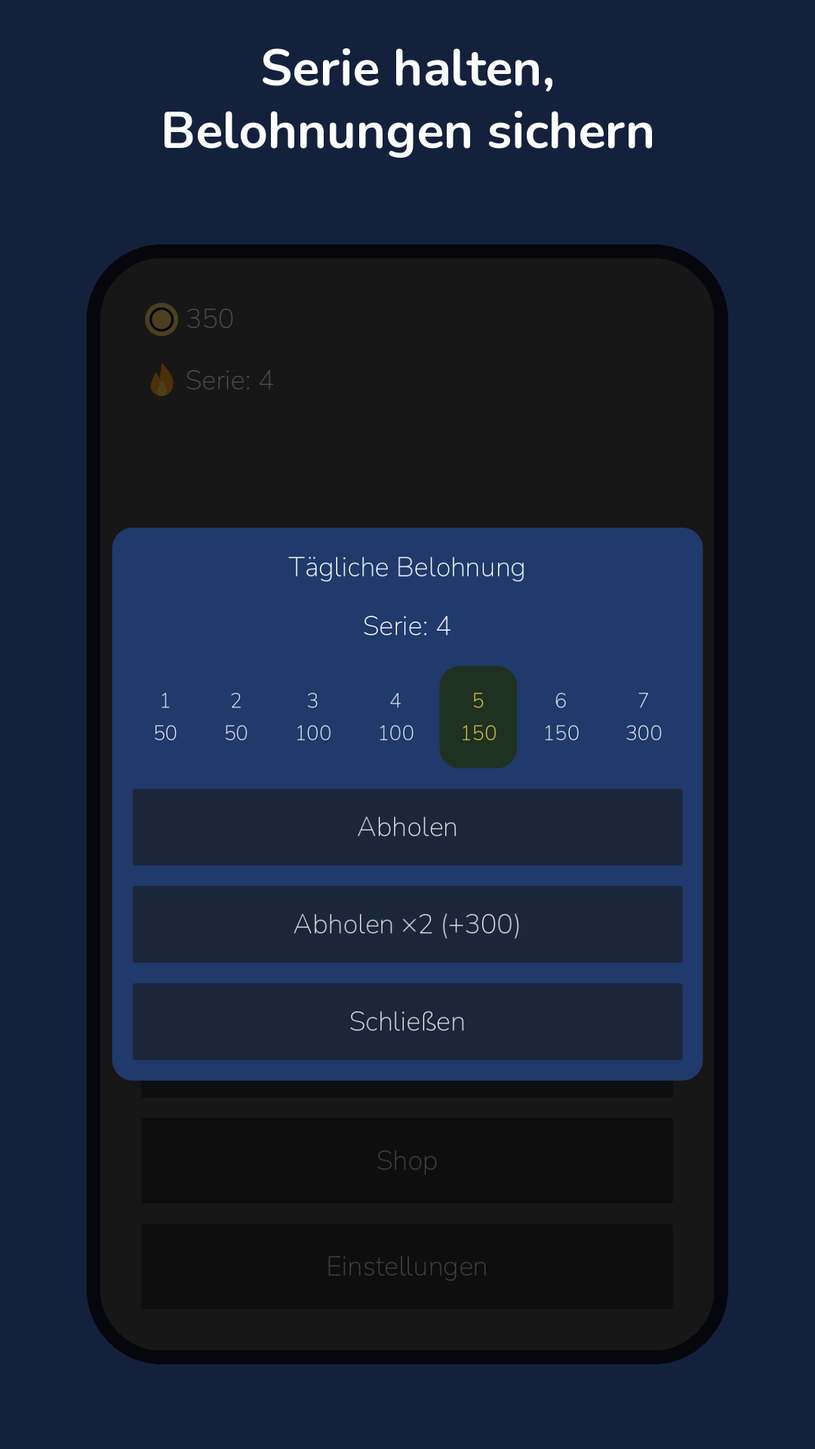
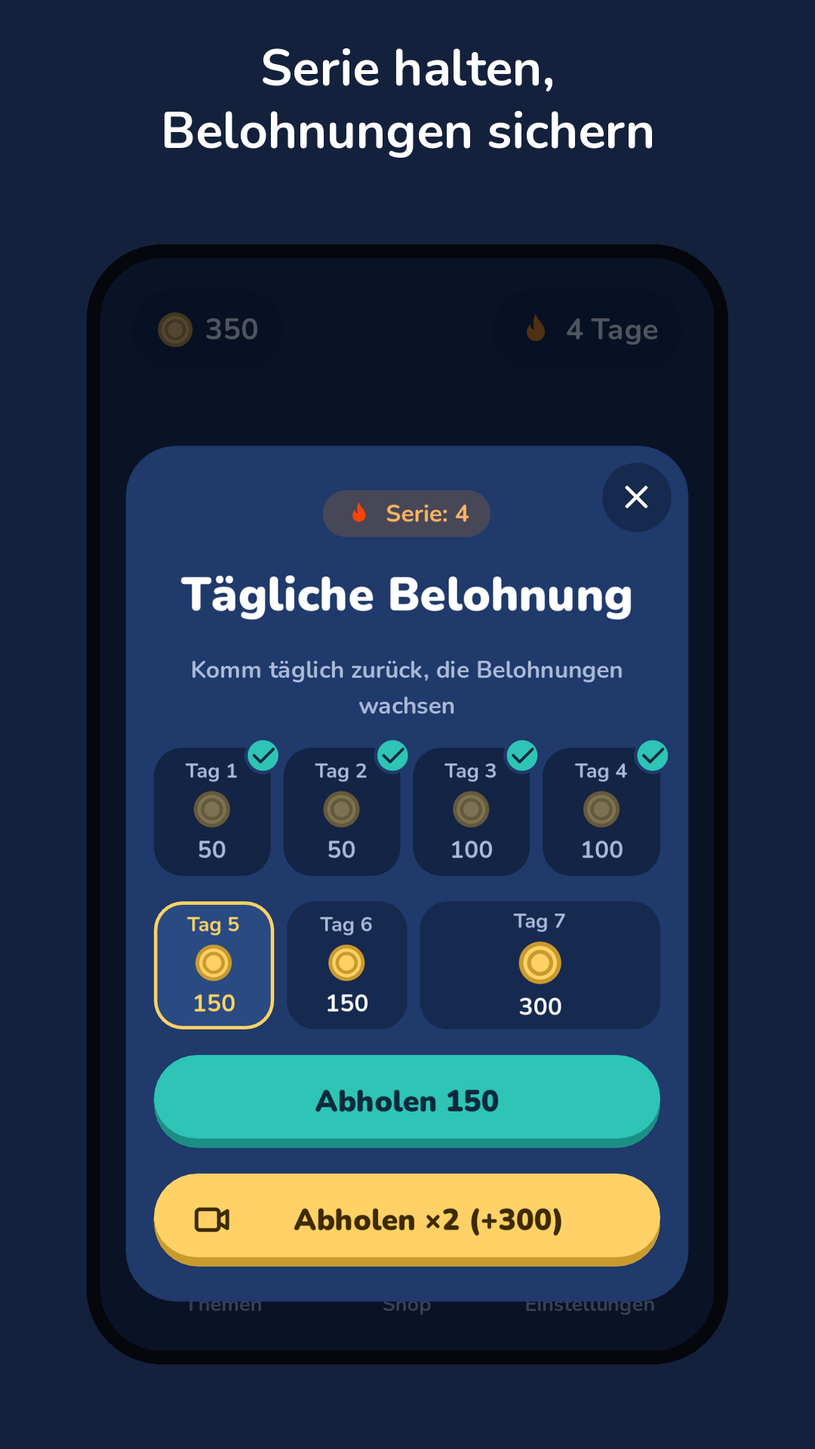
chore(T-283): ponowny odbiór UI v2 (T-236b) — PASS 8/8, kadry sklepowe UI v2, Inbox T-289…T-294 (#239)
* chore(T-283): start

Claude-Session: https://claude.ai/code/session_01G6v5BqP3ZwPGurhcrkDyXZ

* chore(T-283): ponowny odbiór UI v2 (T-236b) PASS 8/8 — raport, kadry sklepowe UI v2, Inbox T-289…T-294

Claude-Session: https://claude.ai/code/session_01G6v5BqP3ZwPGurhcrkDyXZ

---------

Changed region(s): [[0.1222, 0.1875, 0.8861, 0.9062], [0.7028, 0.2188, 0.7944, 0.25], [0.6417, 0.2188, 0.6722, 0.25]]

diff --git a/BACKLOG.md b/BACKLOG.md
@@ -145,12 +145,12 @@ Pętla bierze pierwsze `todo` z najwyższej sekcji. Zadania P0 muszą być `done
   KA: `bash tools/gen_screenshots.sh --store --size 720x1560` działa; `tools/test_tools.py` sprawdza parsowanie `--size`; nowe fixture'y w `screenshot_fixtures.gd` z testem. ≤ 150 linii.
   Skill: `godot-test` + `aso`
 
-- [ ] T-282 `review` UI v2 naprawa: Home — pigułka serii „5 dni · rekord 12” i podpis paska motywu „Do motywu <nazwa>” + „N / M” wg makiety 04 (awans z Inboxu — odkryte w T-276, sesja #25; zależy od T-276 — PR #232; pliki: `home.gd`, `strings.csv`, testy Home)
+- [ ] T-282 `review` UI v2 naprawa: Home — pigułka serii „5 dni · rekord 12” i podpis paska motywu „Do motywu <nazwa>” + „N / M” wg makiety 04 (awans z Inboxu — odkryte w T-276, sesja #25; zależy od T-276 — PR #232; pliki: `home.gd`, `strings.csv`, testy Home) → PR #238
   KA: pigułka serii „N dni · rekord M” z liczbą mnogą EN/PL/DE (PL: 1 dzień / 2+ dni; DE: Tag/Tage; EN: day/days) zamiast „Seria: 5 Rekord: 12”; pasek motywu: podpis „Do motywu <nazwa>” po lewej + „N / M” po prawej (jak LevelComplete T-273) zamiast „do następnego motywu: N / M”. Testy gdUnit4 ≥ 3: forma dla 1 i 5 dni w PL/DE/EN; etykiety pigułki i paska w DE w 720×1280 i 720×1560 mieszczą się w rodzicu (`get_global_rect()`, brak nakładania); istniejące testy Home zielone (dozwolona zmiana ścieżek węzłów). Zestawienie `docs/ui/compare/04_home_T-282.png`. `make check` zielone. ≤ ~120 linii.
   Metryka (KPI.md): Store conversion (wyśw.→instal.) — brak danych (gra niewydana); Home to kadr sklepowy, a jego PASS w T-283 warunkuje podmianę screenshotów pod cel ≥ 25 % (kill-line 15 %) od 1. tygodnia soft launchu.
   Skill: `godot-dev`
 
-- [ ] T-283 `todo` UI v2: przeprowadź ponowny odbiór (T-236b) 8 ekranów z makietami po naprawach T-272…T-282 i podmień kadry sklepowe przy PASS (zależy od T-277, T-278, T-282 oraz zmergowanych T-272…T-276, T-279, T-280; pliki: nowy `docs/ui/ACCEPTANCE_T-236b.md`, PNG w `fastlane/metadata/**/images/**` — tylko kadry, bez lanes, `docs/LOG.md`)
+- [ ] T-283 `review` UI v2: przeprowadź ponowny odbiór (T-236b) 8 ekranów z makietami po naprawach T-272…T-282 i podmień kadry sklepowe przy PASS (zależy od T-277, T-278, T-282 oraz zmergowanych T-272…T-276, T-279, T-280; pliki: nowy `docs/ui/ACCEPTANCE_T-236b.md`, PNG w `fastlane/metadata/**/images/**` — tylko kadry, bez lanes, `docs/LOG.md`) → PR (nr uzupełni orkiestrator) — werdykt PASS 8/8, raport `docs/ui/ACCEPTANCE_T-236b.md`, kadry sklepowe podmienione
   KA: `bash tools/gen_screenshots.sh --store` oraz `--store --size 720x1560` → 15 PNG EN/PL/DE w każdym rozmiarze; `qa-playtester` porównuje 8 ekranów (Level, StuckPanel, LevelComplete, Home, DailyRewardPopup, Themes, Shop, Settings) z `docs/ui/mockups/*.png` wg kryteriów KA T-236 (układ, kolory, typografia, brak szarych domyślnych kontrolek, brak tekstu < 24 px, brak ucięć/nakładania, także DE) → tabela PASS/FAIL per ekran w `docs/ui/ACCEPTANCE_T-236b.md` i w opisie PR. 8/8 PASS (dopuszczalne „PASS (drobne)” z wpisem do Inbox) → kadry sklepowe podmienione, `make screenshots-smoke` exit 0; ≥ 1 FAIL → kadry NIE podmienione, każde odstępstwo = zadanie naprawcze do P1 (plik + KA). Raport ocenia też resztki P3 T-266 (ikony restore / przekreślone video), T-269 (okrągłe przyciski HUD) i T-281 (kadr `stuck_panel` = prawdziwe utknięcie): zgodne z makietą = zamknięte, odstępstwo = zadanie. ≤ ~80 linii + PNG.
   Metryka (KPI.md): Store conversion (wyśw.→instal.) — brak danych przed wydaniem; screenshoty zgodne z zatwierdzonym UI v2 to warunek startu soft launchu z celem ≥ 25 % (kill-line 15 %); po wydaniu porównanie z 1. tygodniem danych Play Console.
   Skill: `aso` + `godot-test`
@@ -253,11 +253,17 @@ Pętla bierze pierwsze `todo` z najwyższej sekcji. Zadania P0 muszą być `done
 - [ ] T-201 `todo` `measure_curve.gd`: w trybie siatki `config.min_level` w `curve_assist.json` dla wiersza `base` = 1 zamiast 0/„brak” (kosmetyka raportu T-187; nie wpływa na liczby); odkryte w sesji #18. Skill: game-economy (z Inboxu, przegląd 2026-W43)
 - [ ] T-261 `todo` Rewarded przy mediacji: kolejność `onUserEarnedReward` vs zamknięcie reklamy ustala źródło mediacji (dla reklam Google nagroda przed zamknięciem — https://developers.google.cn/admob/android/rewarded?hl=en, 2026-10-25) — adapter AdMob w Fazie 5 musi scalić oba callbacki w jedno `rewarded_closed(granted)` z oknem oczekiwania (czysta klasa + `TestClock`); robić razem z adapterem, tylko jeśli włączymy mediację. Skill: ads-iap (z Inboxu, przegląd 2026-W43)
 - [ ] T-263 `todo` `tools/test_ui_icons.py`: `Image.getdata()` daje DeprecationWarning w Pillow 14 → `get_flattened_data()` (odkryte w T-229, sesja #23). Skill: asset-gen (z Inboxu, przegląd 2026-W43)
-- [ ] T-269 `todo` HUD UI v2 (T-230): przyciski HUD jako okręgi (promień = `HUD_BTN/2`; dziś `ButtonIcon` z promieniem 44 → zaokrąglone kwadraty) — wariant theme `ButtonHud` w `ui_theme.tres`; przycisk zamknij w arkuszach (T-233/T-267) bez cienia (makieta: `CARD_ROW`, bez `*_SHADOW`); do T-236 odbiór. Skill: godot-dev — część „przycisk zamknij bez cienia” zrobiona w T-274 (PR #230); okrągłe przyciski HUD = „PASS (drobne)” w odbiorze T-236 (Level) — ocena w T-283 (z Inboxu, przegląd 2026-W43)
-- [ ] T-266 `todo` Ikony UI v2 brakujące względem makiet 07/08: restore (strzałka kołowa), dzwonek (notyfikacje), przekreślone `video` (Bez reklam) — dopisać do `UI_V2_ICONS` w `gen_assets.py` + `ICON_NAMES`; Shop: pastylka „PAKIET STARTOWY”, zegar odliczania i miniatura 2 probówek w karcie startowej; Settings: kafelek `CARD_ICON` pod ikoną, separatory i chevrony wierszy (odkryte w T-234, sesja #23; do T-236 odbiór). Skill: asset-gen + godot-dev — części Shop → T-278, Settings i dzwonek → T-279 (PR #233); pozostałe ikony (restore, przekreślone video) ocenia T-283 (z Inboxu, przegląd 2026-W43)
-- [ ] T-281 `todo` Smoke `stuck_panel` w `tools/screens.txt` to `show_sample()` (fixture `default`), nie prawdziwe utknięcie — fixture „deadlock” (payload bez legalnych ruchów) dla kadru i testu ścieżki `_check_stuck` w screenshotach (odkryte w T-275, sesja #25). Skill: godot-test — kadr `stuck_panel` w sklepie ocenia T-283 (ryzyko jak T-111) (z Inboxu, przegląd 2026-W43)
+- [ ] T-269 `todo` HUD UI v2 (T-230): przyciski HUD jako okręgi (promień = `HUD_BTN/2`; dziś `ButtonIcon` z promieniem 44 → zaokrąglone kwadraty) — wariant theme `ButtonHud` w `ui_theme.tres`; przycisk zamknij w arkuszach (T-233/T-267) bez cienia (makieta: `CARD_ROW`, bez `*_SHADOW`); do T-236 odbiór. Skill: godot-dev — część „przycisk zamknij bez cienia” zrobiona w T-274 (PR #230); okrągłe przyciski HUD = „PASS (drobne)” w odbiorze T-236 (Level) — ocena w T-283 (z Inboxu, przegląd 2026-W43) — T-283: odstępstwo potwierdzone (kadry `02_level`/`01_pour`), zostaje otwarte
+- [x] T-266 `done` Ikony UI v2 brakujące względem makiet 07/08: restore (strzałka kołowa), dzwonek (notyfikacje), przekreślone `video` (Bez reklam) — dopisać do `UI_V2_ICONS` w `gen_assets.py` + `ICON_NAMES`; Shop: pastylka „PAKIET STARTOWY”, zegar odliczania i miniatura 2 probówek w karcie startowej; Settings: kafelek `CARD_ICON` pod ikoną, separatory i chevrony wierszy (odkryte w T-234, sesja #23; do T-236 odbiór). Skill: asset-gen + godot-dev — części Shop → T-278, Settings i dzwonek → T-279 (PR #233); pozostałe ikony (restore, przekreślone video) ocenia T-283 (z Inboxu, przegląd 2026-W43) — zamknięte w T-283: restore/dzwonek zrobione (T-279), reszta (przekreślone video, zegar) scalona w T-287
+- [ ] T-281 `todo` Smoke `stuck_panel` w `tools/screens.txt` to `show_sample()` (fixture `default`), nie prawdziwe utknięcie — fixture „deadlock” (payload bez legalnych ruchów) dla kadru i testu ścieżki `_check_stuck` w screenshotach (odkryte w T-275, sesja #25). Skill: godot-test — kadr `stuck_panel` w sklepie ocenia T-283 (ryzyko jak T-111) (z Inboxu, przegląd 2026-W43) — T-283: potwierdzone, zostaje otwarte
 
 ## Inbox (nieprzeanalizowane — przegląd w cotygodniowym refreshu)
+- [ ] T-289 `todo` Level: 4. przycisk HUD pokazuje „Ad” z ikoną video, makieta 01: moneta + 60 — ustalić z GDD (reklama ma pierwszeństwo wg T-230) i ewentualnie fixture kadru `01_pour` bez gotowej reklamy; plik `hud.gd`/`screenshot_fixtures.gd` — odkryte w T-283 (odbiór T-236b, sesja #26). Skill: godot-dev
+- [ ] T-290 `todo` StuckPanel: ikona wiersza „+N cofnięć” = ta sama co „Cofnij”; makieta 02: cofnij z zegarem — nowa ikona `undo_clock` w `gen_assets.py` + `stuck_panel.gd` — odkryte w T-283 (odbiór T-236b, sesja #26). Skill: asset-gen
+- [ ] T-291 `todo` LevelComplete: miniatury probówek ściemnione i małe vs makieta 03 (pełne kolory, rząd 8); przy 720×1280 karta dochodzi do dołu probówek; linia „Next level: +1 color” spoza makiety — plik `level_complete.gd`, `level.gd` (`fit_board_above_panel`) — odkryte w T-283 (odbiór T-236b, sesja #26). Skill: godot-dev
+- [ ] T-292 `todo` Home: plakietka NOWOŚĆ niewidoczna w kadrze store `aso_home` (zależy od stanu) — fixture z badge albo decyzja, że kadr bez badge jest OK; plik `screenshot_fixtures.gd` — odkryte w T-283 (odbiór T-236b, sesja #26). Skill: aso
+- [ ] T-293 `todo` DailyRewardPopup: ikona video w przycisku ×2 przy lewej krawędzi — `InlineIcon` obok tekstu jak w LevelComplete (T-273); plik `daily_reward_popup.gd` — odkryte w T-283 (odbiór T-236b, sesja #26). Skill: godot-dev
+- [ ] T-294 `todo` Shop 720×1280: pusty pas ~100 px pod `ScrollContainer` i ucięty wiersz „Bez reklam” — niższa karta startowa na niskim ekranie albo scroll do dołu ekranu; plik `shop_screen.gd` — odkryte w T-283 (odbiór T-236b, sesja #26). Skill: godot-dev
 - [ ] T-287 `todo` Ikony UI v2 do Shop (makieta 07): `clock` (zegar przy liczniku oferty), `coins_stack` (dwie monety dla 1500 monet), przekreślone `video` (Bez reklam — część P3 T-266) — `UI_V2_ICONS`/`ICON_NAMES` w `gen_assets.py`, podpięcie w `shop_screen.gd`; dziś licznik bez ikony, 1500 monet z jedną monetą, `video` bez przekreślenia. Odkryte w T-278 (sesja #26). Skill: asset-gen + godot-dev
 - [ ] T-288 `todo` `strings.csv`: nieużywane klucze `shop_item_coins_small`/`shop_item_coins_large` (tytuły produktów to teraz `shop_coins_amount`) — usunąć po `grep`; `extra_tube_cost_coins` zakres [0, …] dopuszcza 0 (dzielenie w `ShopScreen._desc` chronione `maxi(…,1)`) — rozważyć dolną granicę 1. Odkryte w T-278 (sesja #26). Skill: godot-dev
 - [ ] T-285 `todo` UI v2: `ButtonSecondary` ma w theme cień (`border_width_bottom` w `BG_DEEP`), a makiety 06/07 pokazują płaskie pigułki („W użyciu”, „Użyj”, ceny motywów) — ocenić w T-283; jeśli odstępstwo, wariant `ButtonPill` bez cienia w `ui_theme.tres`. Odkryte w T-277 (sesja #26). Skill: godot-dev

diff --git a/docs/ui/ACCEPTANCE_T-236b.md b/docs/ui/ACCEPTANCE_T-236b.md
@@ -1,0 +1,39 @@
+# Ponowny odbiór UI v2 (T-236b / T-283) — 2026-10-25
+Metoda: worktree gałęzi task/T-283 (zawiera T-272…T-282). Uruchomiono:
+- `bash tools/gen_screenshots.sh --store --size 720x1560` — 15 PNG EN/PL/DE (po 5 na locale: 01_pour, 02_relax, 03_daily, 04_streak, 05_themes) do przeglądu w proporcji makiety.
+- `bash tools/gen_screenshots.sh --size 720x1280` — smoke 15 kadrów EN (`export/screenshots_framed/`), nowe względem T-236: 13_shop_starter, 14_daily_streak3, 15_themes_locked.
+- Na koniec `bash tools/gen_screenshots.sh --store` (1080×1920) — właściwe kadry sklepowe; `make screenshots-smoke` exit 0 (~28 s).
+
+Obejrzano wzrokowo vs makiety `docs/ui/mockups/01…08`: store 1560 DE (01_pour, 02_relax, 03_daily, 04_streak, 05_themes; DE ma najdłuższe napisy — PL/EN store nie oglądane osobno) oraz smoke 1280 EN (02_level, 03_level_complete, 04_stuck_panel, 05_home, 06_settings_screen, 13_shop_starter, 14_daily_streak3, 15_themes_locked). Żaden ekran nie ma szarego tła ani szarych domyślnych kontrolek. Pomiaru pikselowego tekstu < 24 px nie wykonano; najmniejsze napisy to podpisy 24–28 px.
+
+Werdykt ogólny: **PASS (8/8 PASS; 5 z nich „PASS (drobne)”)**
+
+| Ekran | Makieta | Kadr | Wynik | Odstępstwa |
+|---|---|---|---|---|
+| Level | 01_level | store DE 01_pour; smoke 02_level | PASS (drobne) | Tło OK, HUD (pauza/tytuł/pill monet) zgodny, plansza bez ucięć. (a) Przyciski akcji to nadal zaokrąglone kwadraty (makieta: okręgi) — T-269. (b) Podpis 4. przycisku to „Werbung/Ad” z ikoną video, a w makiecie moneta + 60. (c) Plansza w smoke (4 probówki) ścieśniona do góry. Brak ucięć w DE. |
+| StuckPanel | 02_stuck | smoke 04_stuck_panel | PASS (drobne) | Przycisk X to pełny krążek. Cztery wiersze zgodne z makietą: Cofnij (Free), Extra tube (Ad), +3 undos (20), Hint (25); dół: Restart i Skip; tło pod panelem to pełne ściemnione probówki. (a) Wiersz „+3 undos” używa tej samej ikony co Cofnij (makieta: cofnij z zegarem). (b) Pod panelem sztuczny stan `show_sample()` — T-281. |
+| LevelComplete | 03_level_complete | store DE 02_relax; smoke 03 | PASS (drobne) | Granatowe tło, brak nakładania; „Super!”, „LEVEL 20” bez ucięcia; pill „Perfekt!”, +25, linia rozbicia, pasek „Nächstes Thema”, przyciski ×2 i Weiter z wyśrodkowaną ikoną. (a) W smoke 1280 4 probówki stykają się z górną krawędzią karty (panel wyższy przy niskim ekranie). (b) Miniatury małe i ściemnione (makieta: pełne kolory, rząd 8). (c) Smoke ma dodatkową linię „Next level: +1 color”, której nie ma w makiecie. |
+| Home | 04_home | store DE 03_daily; smoke 05_home | PASS (drobne) | Tło OK; logo z probówkami o zaokrąglonym dnie, Graj dwuliniowy, pill monet i serii „5 Tage · Rekord 12”; karta dzienna z kolumnami Belohnung/Neu in, timer w osobnej linii, bez ucięć w DE; pasek „Bis Pastell 350/600”; nawigacja zgodna. (a) Brak plakietki NOWOŚĆ/NEW w kadrze store (fixture `aso_home` — badge zależy od stanu). (b) W smoke przycisk „Play” w karcie szary, bo stan zablokowany („From level 3”). |
+| DailyRewardPopup | 05_daily_reward | store DE 04_streak; smoke 14_daily_streak3 | PASS (drobne) | X to pełny krążek; pill „Serie”, tytuł, siatka dni 1–7 (check-i, „dziś” z obwódką ACCENT, Dzień 7 szerszy), przyciski Abholen i ×2; tło jednolicie przyciemnione; brak ucięć w DE. (a) Karta niższa niż w makiecie. (b) Ikona video w ×2 przy lewej krawędzi, nie obok tekstu (DE i EN). |
+| Themes | 06_themes | store DE 05_themes; smoke 15_themes_locked | PASS | Miniatury z zaokrąglonymi probówkami, aktywny motyw z check-iem i obwódką, ceny (moneta + 600/1944) w pigułkach ze złotą obwódką; karta postępu „Do motywu…” z podpisem; strzałka wstecz wyśrodkowana; brak ucięć. |
+| Shop | 07_shop | smoke 13_shop_starter | PASS (drobne) | Karta „Pakiet startowy” z obwódką, plakietką, timerem, miniaturą, „800 coins + Neon theme” i CTA; podtytuły „About 8 extra tubes”, „+20 % free”; „Restore purchases” jako link z podkreśleniem; strzałka wstecz wyśrodkowana. (a) Lista w ScrollContainer — przy 1280 wiersz „No ads” przycięty, pod nim pusty pas ~100 px przed linkiem. (b) Timer bez ikony zegara. (c) 1500 monet z jedną monetą. (d) „Bez reklam” bez przekreślonego video — T-287. |
+| Settings | 08_settings | smoke 06_settings_screen | PASS (drobne) | Kafelki ikon `CARD_ICON`, separatory, przełączniki ~112×64, Language jako „System ›”, Restore z ikoną cofania i chevronem, nagłówki sekcji, dzwonek przy Notifications (wiersz bez makiety), stopka „Vialo · version 0.1.0”. (a) Brak wiersza „Opcje prywatności” w kadrze — widoczny tylko gdy `Ads.is_privacy_options_required()` (fixture bez consentu) — poprawne. |
+
+## Resztki P3
+- T-266: restore ma strzałkę kołową i chevron w Settings, dzwonek jest — zgodne; przekreślone `video` dla „Bez reklam” nadal brakuje (`shop_screen.gd` mapuje `remove_ads` na `video`) — pokrywa T-287 → T-266 zamknięte jako scalone w T-287.
+- T-269: przyciski HUD (pauza i 4 akcje) to nadal zaokrąglone kwadraty, makieta ma okręgi — zostaje otwarte (wariant `ButtonHud` w `ui_theme.tres`, promień `HUD_BTN/2`, użyty w `hud.gd`/`assist_bar.gd`; KA: kadr `02_level` z okręgami + test; ≤ 40 linii).
+- T-281: kadr `stuck_panel` to nadal `show_sample()` (Level 1, 3 ruchy do celu), nie prawdziwe utknięcie — zostaje otwarte bez zmian.
+
+## Drobne do Inbox
+- Level: 4. przycisk akcji pokazuje „Ad/Werbung” z ikoną video, makieta: moneta + 60 (zweryfikować z GDD — reklama ma pierwszeństwo wg T-230).
+- StuckPanel: ikona „+3 cofnięcia” różni się od ikony w makiecie (cofnij z zegarem).
+- LevelComplete: miniatury probówek ściemnione i małe; przy 1280 karta dochodzi do dołu probówek; dodatkowa linia „Next level: +1 color” spoza makiety.
+- Home: plakietka NOWOŚĆ/NEW niewidoczna w kadrze store `aso_home`.
+- DailyRewardPopup: ikona video w ×2 przy lewej krawędzi (powinna stać obok tekstu jak w LevelComplete).
+- Shop: ikony zegara / `coins_stack` / przekreślone `video` (T-287); przy 1280 pusty pas pod ScrollContainerem i ucięty wiersz „No ads”.
+
+## Kadry sklepowe
+- `--store` 1080×1920: 15 PNG zmienionych w `fastlane/metadata`; `make screenshots-smoke`: exit 0.
+
+## Decyzja
+PASS → kadry sklepowe `fastlane/metadata/android/{en-US,pl-PL,de-DE}/images/phoneScreenshots/*.png` (15 PNG 1080×1920) podmienione w tym PR. Drobne odstępstwa → Inbox T-289…T-294 (BACKLOG.md). Resztki P3: T-266 scalone w T-287 (zamknięte), T-269 i T-281 zostają otwarte w P3.

diff --git a/docs/STATUS.md b/docs/STATUS.md
@@ -39,6 +39,8 @@ Sesja #20 (2026-10-25, continuous-dev, od 07:11 UTC): paczka refill #15 wykonana
 
 Sesje #21–#22 (2026-10-25, continuous-dev): paczka refill #16 wykonana — zmergowane T-237 (#198, `hint_exact_max_states` = 2000, czas do podpowiedzi p95 ≤ 316 ms), T-238 (#199, suita e2e reklam), T-211 (#200), T-226 (#201, „nie warto”), T-241 (#202, `make perf`), T-239 (#203), T-242 (#204, `docs/DASHBOARD.md`), housekeeping #205; w auto-merge: T-227 (#206, `RoundCounters`, `GameRound` ≤ 20 metod publicznych), T-212 (#207, id przerwy w `interstitial_closed`), T-240 (#208, `Ads.reset_for_test()`, naprawia też T-251 — „Signal already connected” 16× → 0). Testy: 684 gdUnit4, 68 tools (gałąź T-240). Refill #17 (game-designer): paczka **„Faza 5 prep XV: wątki robocze bez współdzielonego stanu, sklep i reklamy odporne na powtórzone/przeterminowane obiekty SDK, czysty log bramki, cel miesiąca zmierzony”** — 9 zadań (P1: T-252 migawka `GameConfig` dla wątku prefetchu + ADR-015, T-253 `moves_gate` na stanach utknięcia + strażnik wołających solvera, T-256 IAP 1× na token, T-257 limit wieku reklamy `ad_max_age_seconds`; P2: T-254 `level:stuck` z wartością i przedziałem, T-255 budżet ERROR w logu `make test`, T-258 przypadki brzegowe callbacków SDK, T-259 siatka celu miesiąca w `make sim`, T-260 progi `make perf`); Inbox: T-244 → T-252, T-245 → T-253/T-254, T-251 scalone z T-240, nowe T-261/T-262; GDD: PROPOZYCJE refill #17, pytania 26–27. **Decyzja: faza pozostaje „Faza 4”** — kryterium wyjścia (T-054: AAB na Play Internal + TestFlight) niezmienione i zależy wyłącznie od kont Huberta; żadne zadanie refillu #17 go nie dotyka.
 
+Sesja #26 (2026-10-25, continuous-dev): naprawy UI v2 domknięte — Themes (T-277, #236), Shop (T-278, #237), Home pigułka serii i podpis paska (T-282, #238); ponowny odbiór T-236b (T-283): PASS 8/8, kadry sklepowe `fastlane/metadata` podmienione na UI v2 (warunek startu soft launchu dla metryki Store conversion). Faza bez zmian: **Faza 4** — kryterium wyjścia (T-054: AAB na Play Internal + TestFlight) nadal wymaga kont Huberta.
+
 Poprzednia paczka (refill #16, P1/P2, wykonana; T-227/T-212/T-240 w auto-merge): **„Faza 5 prep XIV: szybka podpowiedź, rewarded odporny na chwilowy brak sieci, przepływ reklam end-to-end, kontrakty przed AdMob”** — P1: osobny budżet exact dla podpowiedzi `hint_exact_max_states` z bramką czasu do wyniku p95 ≤ 500 ms / max ≤ 1000 ms na CI i poprawności ≥ 95 % (T-228), test przepływu reklam przez `App`: zgoda → ładowanie → przycisk rewarded widoczny/ukryty → `giveup` (T-229), nowa seria ładowania po powrocie z tła po `giveup` (T-230); P2: „Wczorajszy Poziom dnia” jako sim-only pomiar z regułą decyzji (T-226), ścisła walidacja struktury snapshotu rundy przy odczycie (T-211), `make perf` — stały raport wydajności jako baza dla T-054 (T-232), podział `GameRound` bez zmiany zachowania (T-227), id przerwy w callbackach zamknięcia reklam zamiast FIFO (T-212), `docs/DASHBOARD.md` — mapa eventów → metryki KPI + strażnik kompletności (T-233), reset stanu singletona `Ads` między suitami (T-231). Uzasadnienie kolejności: D1/D7 — po T-222 wątek główny jest wolny, ale gracz czeka na podpowiedź do 2,7 s na CI (na telefonie szacunkowo kilkanaście sekund), a pomiar T-222 już wskazuje wartość (2000 → max 326 ms, 24/24 rozwiązań) — tania zmiana z bramką; ARPDAU — po T-225 6 błędów ładowania wyłącza rewarded do restartu procesu, a aplikacje mobilne wracają z tła bez restartu, więc chwilowy brak sieci = 0 impresji przez wiele sesji; najpierw test przepływu przez `App` (lekcja T-168/T-181), potem zmiana; crash-free przed adapterem AdMob — kontrakty (id przerwy), odporny snapshot i izolacja stanu `Ads` w testach; Faza 5 kończy się „eventami GA w dashboardzie”, więc mapa eventów → metryki powstaje przed SDK; pomysł meta D7/D30 (Wczorajszy Poziom dnia) tylko przez pomiar — lekcja T-129/T-162/T-166/T-171/T-180.
 
 Poprzednia paczka (refill #15, P1/P2, wykonana; T-209/T-219 w auto-merge, T-216 w review): **„Faza 5 prep XIII: wątek główny bez wielosekundowego solvera, zgoda na notyfikacje, reklamy gotowe na jednorazowe obiekty AdMob, liczby sim z przedziałem ufności”** — P1: pomiar czasu `hint()`/`moves_to_goal()` na ≥ 36 stanach w trakcie rundy z bramką p95 ≤ 100 ms / max ≤ 500 ms na CI (T-210), naprawa tylko przy niespełnionej bramce — mniejszy budżet albo liczenie w tle (T-222, warunkowe), prośba o zgodę systemową na notyfikacje po 1. Poziomie dnia — logika + fake (T-223); P2: `AdLoadPolicy` z wykładniczym ponawianiem i limitem (T-224), ładowanie w `AdProvider` + preload/ponawianie w `AdService` (T-225, ADR-013), `level:fail:abandon:<przedział>` + `GameRound.extra_tubes_added()` (T-214), `TestClock.ticking_float` + strażnik ATT przy następnym starcie (T-219), osobny `user://` per worktree + `.gitignore` symlinku gdUnit4 (T-221), σ impresji per gracz-dzień i 95 % CI ads/DAU w `make sim` (T-209), tabela default/H1–H4 na jednej bazie + H4/EXP-004 przepisane (T-216). Uzasadnienie kolejności: crash-free (reguła 1 `KPI.md`) — jedyny znany kod, który może zablokować wątek główny na sekundy przy dotknięciu gracza, to solver podpowiedzi/`StuckPanel` (≈ 1,7 s na CI w T-194, telefony kilkukrotnie wolniejsze), a żaden test ani bot go nie mierzy — pomiar przed obietnicą, naprawa warunkowa; D7 (reguła 3 wymienia notyfikacje) — harmonogram z T-151 bez zgody systemowej nie wyświetli niczego na Androidzie 13+ i iOS, a moment prośby jest decyzją produktową (8) bez logiki; ARPDAU przed AdMob — obiekt reklamy AdMob jest jednorazowy, więc bez preloadu i ponawiania rewarded znika po 1. pokazie lub błędzie sieci, a dziś żaden fake tego nie modeluje; przewidywania A/B Fazy 6 wymagają przedziału ufności (różnice H1–H4 0,02–0,4 przy szumie ±0,1) i jednej bazy po T-199/T-203; reszta to domknięcia po otwartych PR-ach (T-205, T-207) i higiena równoległych worktree, która dała fałszywe czerwone w sesji #19.

diff --git a/docs/LOG.md b/docs/LOG.md
@@ -346,3 +346,4 @@ Godot 4.4.1 → 4.7.2, gdUnit4 → v7, target API 36 (ADR-008). make check zielo
 - T-277 → PR niżej (Themes wg makiety 06: `ThemePreview` rysuje probówki przez `TubeView.bottom_round_path`/`layer_polygon` ze szkłem motywu α 0,7 i wzorem warstw z makiety; znacznik aktywnego = kółko `ACCENT` + `check` w `ON_ACCENT`; pigułka ceny z obwódką `ACCENT` α 0,5 i monetą `InlineIcon` wyśrodkowaną z tekstem, `disabled` = `normal`; karta postępu z podpisem `themes_hint`; `ScreenHeader.build`: `icon_alignment = CENTER` na przycisku wstecz — dotyczy też Shop/Settings; 794 gdUnit4). QA (3 seedy 200/200, 0 softlocków) wykrył BLOKUJĄCE: na 720×1280 miniatura kurczy się do 150 px, a probówki rysowane stałą wysokością 170 px wystawały nad tło → `ThemePreview.draw_scale()` + `tube_rect(i)` i asercja `encloses` w teście geometrii. Zestawienie `docs/ui/compare/06_themes_T-277.png`. Pytanie do Huberta: dynamiczna wysokość miniatur 150–277 px vs przewijanie. Inbox T-285 (cień `ButtonSecondary` vs płaskie pigułki), T-286 (artefakt obwódki).
 - T-278 → PR niżej (na gałęzi T-277, depends on #236; Shop wg makiety 07: karta startowa na `CARD_ICON` z obrysem `ACCENT` 6 px, pastylka „PAKIET STARTOWY”, licznik `format_hms` „Jeszcze HH:MM:SS” (bez timera), miniatura 2 probówek `StarterTubes` w kolorach motywu `iap_starter_theme`, CTA „Kup za %s”; produkty w kolejności 500 → 1500 → Bez reklam z tytułami „N monet” i podtytułami „Około N dodatkowych probówek” (= `iap_coins_small / extra_tube_cost_coins`) i „+N % gratis” (nowy klucz `GameConfig.iap_coins_large_bonus_pct` = 20) w `PRIMARY`; „Przywróć zakupy” jako `LinkButton` z podkreśleniem; lista w `ScrollContainer`, bo na 720×1280 nie mieści się (pytanie do Huberta); 795 gdUnit4, +5). QA PASS (3 seedy 200/200, 0 softlocków; DE 1280/1560 bez ucięć); 2 drobne uwagi do testów (martwa zmienna, literały 8/20 → z `GameConfig`) poprawione przed PR. ~330 linii (ponad 250 z KA — przepisany `_build_card` + `StarterTubes`, bez sensownego podziału). Zestawienie `docs/ui/compare/07_shop_T-278.png`. Inbox T-287 (ikony clock/coins_stack/video_off), T-288 (martwe klucze CSV, dolna granica `extra_tube_cost_coins`).
 - T-282 → PR niżej (na gałęzi T-278, depends on #237; Home: `Home.streak_text` z kluczami `home_streak_one`/`home_streak_many` — Godot CSV nie ma liczby mnogiej, PL ma tylko „1 dzień / N dni”; `home_streak_best` → „· rekord %d” w `TEXT_SECTION`; pasek motywu z wierszem „Do motywu <nazwa>” (`home_theme_to`, `clip_text`) + „N / M” w `ACCENT`; `PROGRESS_H` 22; 803 gdUnit4, +4). QA PASS (seed 42: 200/200; DE 1280/1560 bez ucięć). Pytanie do Huberta: odmiana nazw motywów po polsku. Zestawienie `docs/ui/compare/04_home_T-282.png`.
+- T-283 → PR niżej (na gałęzi T-282, depends on #238): ponowny odbiór UI v2 (T-236b) przez qa-playtester — PASS 8/8 (Themes czysty PASS; 5 ekranów „PASS (drobne)”), raport `docs/ui/ACCEPTANCE_T-236b.md`; kadry sklepowe `fastlane/metadata` podmienione (15 PNG 1080×1920 EN/PL/DE, `make screenshots-smoke` exit 0); drobne → Inbox T-289…T-294; P3: T-266 zamknięte (scalone w T-287), T-269/T-281 zostają. Metoda: store 720×1560 + smoke 720×1280 do przeglądu, potem `--store` 1080×1920.
